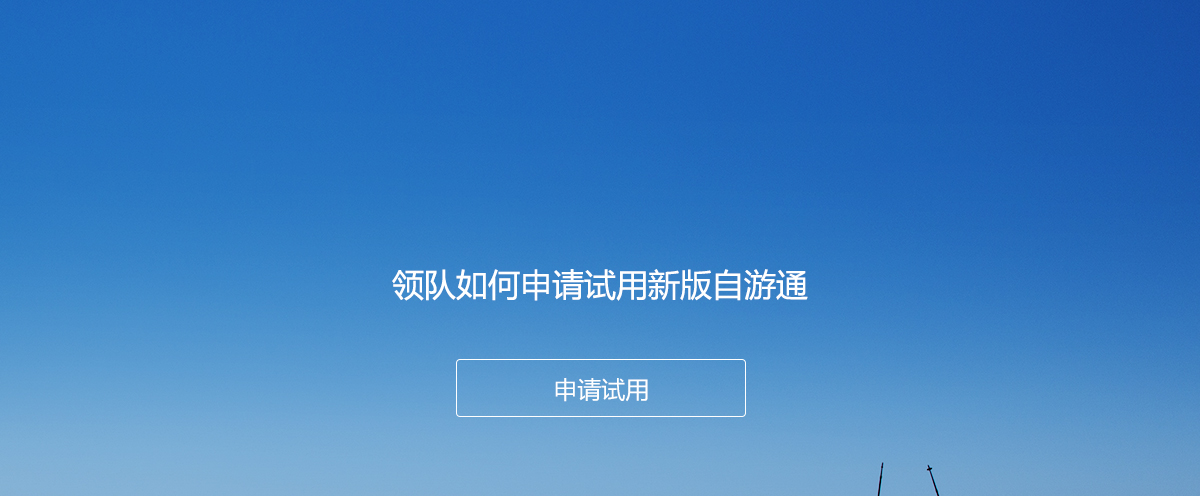
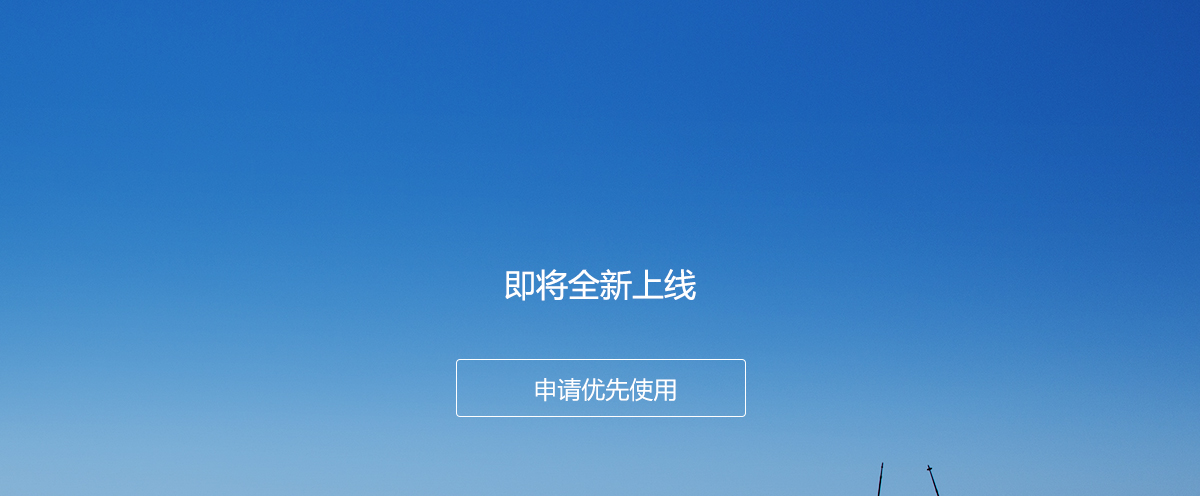
set the entry of old version lvye_pay to a specific url

Changed region(s): [[0.3083, 0.5444, 0.6783, 0.6048], [0.4317, 0.756, 0.5858, 0.8165]]

diff --git a/pub_site/src/pub_site/static/css/frontpage.css b/pub_site/src/pub_site/static/css/frontpage.css
@@ -154,9 +154,10 @@ article,aside,details,figcaption,figure,footer,header,menu,nav,section,summary,t
 
 .join{height:913px;background:url(../images/frontpage/join.jpg) no-repeat center top;}
 .join_center{width:1200px;margin:0 auto;position:relative;}
-.join_center a{display:block;width:290px;height:58px;position:absolute;left:50%;top:360px;margin-left:-144px;}
-.join_center p{font-size: 20px;color: #fff;position: absolute;left: 50%;bottom: 50px;line-height: 30px;margin-left: -260px}
 
+.join_center a.tryuse{display:block;width:290px;height:58px;position:absolute;left:50%;top:360px;margin-left:-144px;}
+.join_center p{font-size: 20px;color: #fff;position: absolute;left: 50%;bottom: 50px;line-height: 30px;margin-left: -260px}
+.join_center a.backold{font-size:20px;color:#fff;position:absolute;left:50%;top:50%;margin: -13px 0 0 -55px;}.join_center a.backold:hover{text-decoration:underline;}
 
 /*尾部*/
 .bottom{height:130px;background:#333;text-align:center;color:#fff;padding-top:24px;min-width:1200px;width: 100%;}

diff --git a/pub_site/src/pub_site/templates/frontpage/main.html b/pub_site/src/pub_site/templates/frontpage/main.html
@@ -61,10 +61,16 @@
 	<div class="join_center">
     	<img src="{{ url_for('static', filename='images/frontpage/join_c1.jpg') }}" width="1200" height="496" >
         <img src="{{ url_for('static', filename='images/frontpage/join_c2.jpg') }}" width="1200" height="417" >
-        <a href="javascript:void(0)" target="_blank" title=""></a>
-        <p>注意事项：<br>备案领队可在此申请试用新版自游通，申请提交后，<br>客服会与您沟通相关事项，并在开通新版自游通后通知您。</p>
+        <a class="tryuse" href="javascript:void(0)" target="_blank" title=""></a>
+        <a class="backold" href="http://pay.lvye.cn/myaccount/index" target="_self" title="">进入旧版&gt;&gt;</a>
+        <p>注意事项：<br>备案领队可在此申请优先使用新版自游通，申请提交后，<br>客服会与您沟通相关事项，并在开通新版自游通后通知您。</p>
     </div>
+
+
 </div>
+
+
+
 
 <!--S遮罩层-->
 <div class="bgLayer"></div>

diff --git a/pub_site/src/pub_site/templates/layout.html b/pub_site/src/pub_site/templates/layout.html
@@ -36,7 +36,7 @@
         	<li><a href="http://leader.lvye.com/manage/list.jhtml" target="_blank">活动管理</a></li>
             <li><a href="http://leader.lvye.com/enter/entList.jhtml" target="_blank">报名管理</a></li>
             <li><a href="http://leader.lvye.com/lrfd/list.jhtml" target="_blank">退款管理</a></li>
-            <li><a href="http://pay.lvye.cn/" target="_blank">旧版自游通</a></li>
+            <li><a href="http://pay.lvye.cn/myaccount/index" target="_blank">旧版自游通</a></li>
         </ul>
         <div class="loginBtn clearfix">
             <div class="yh">
